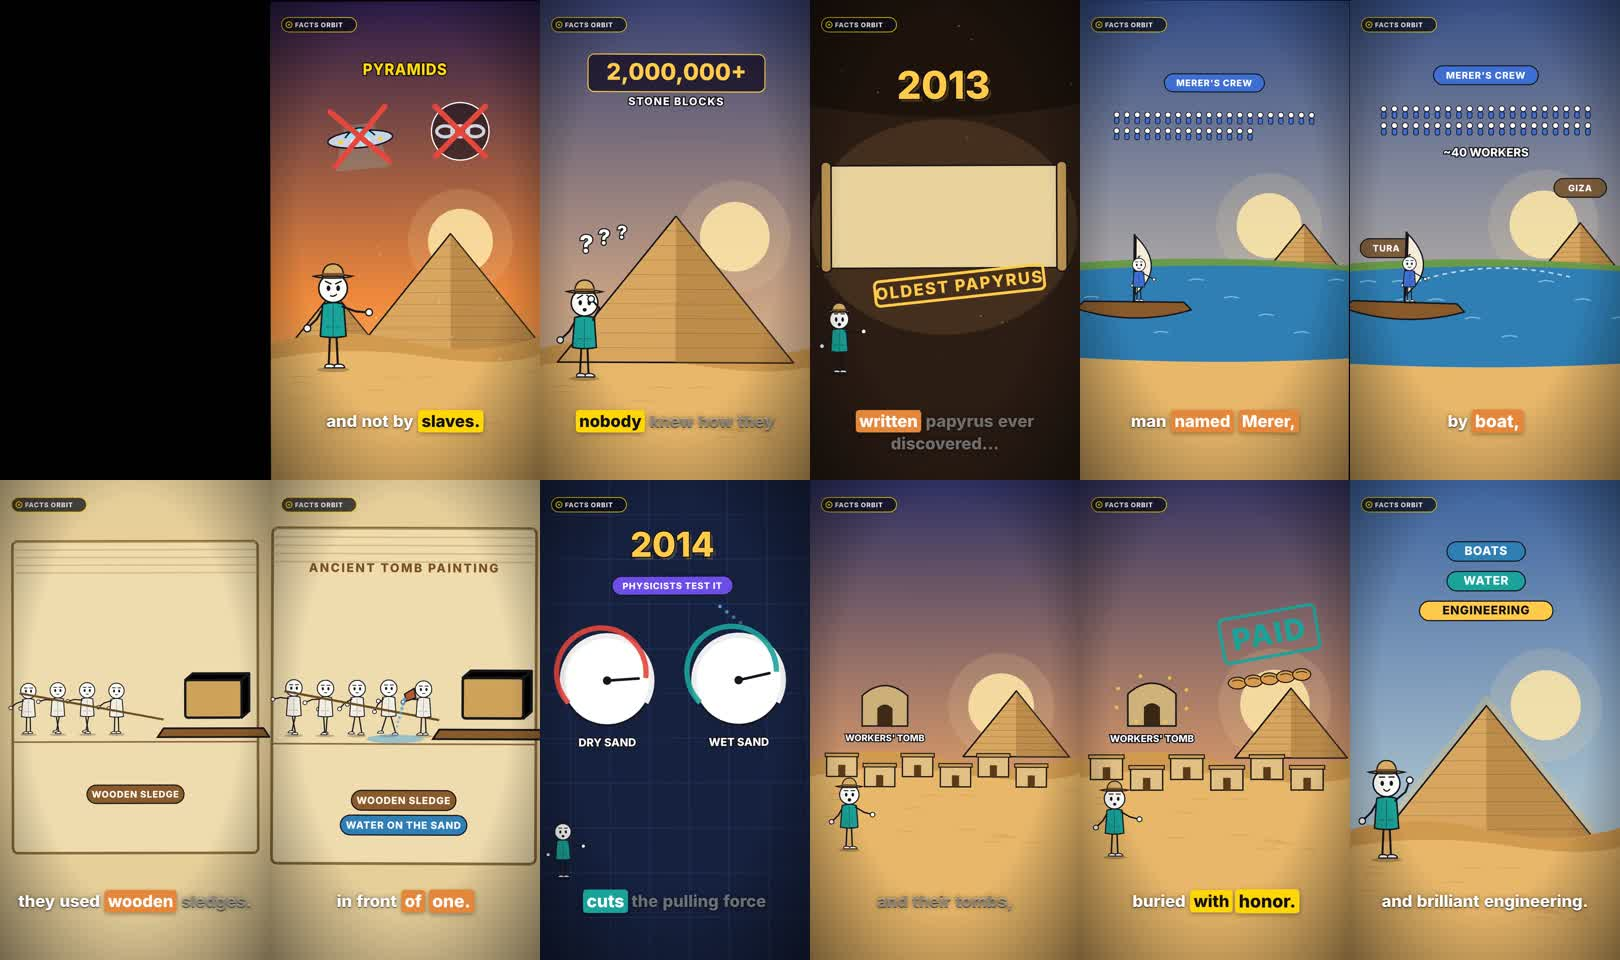
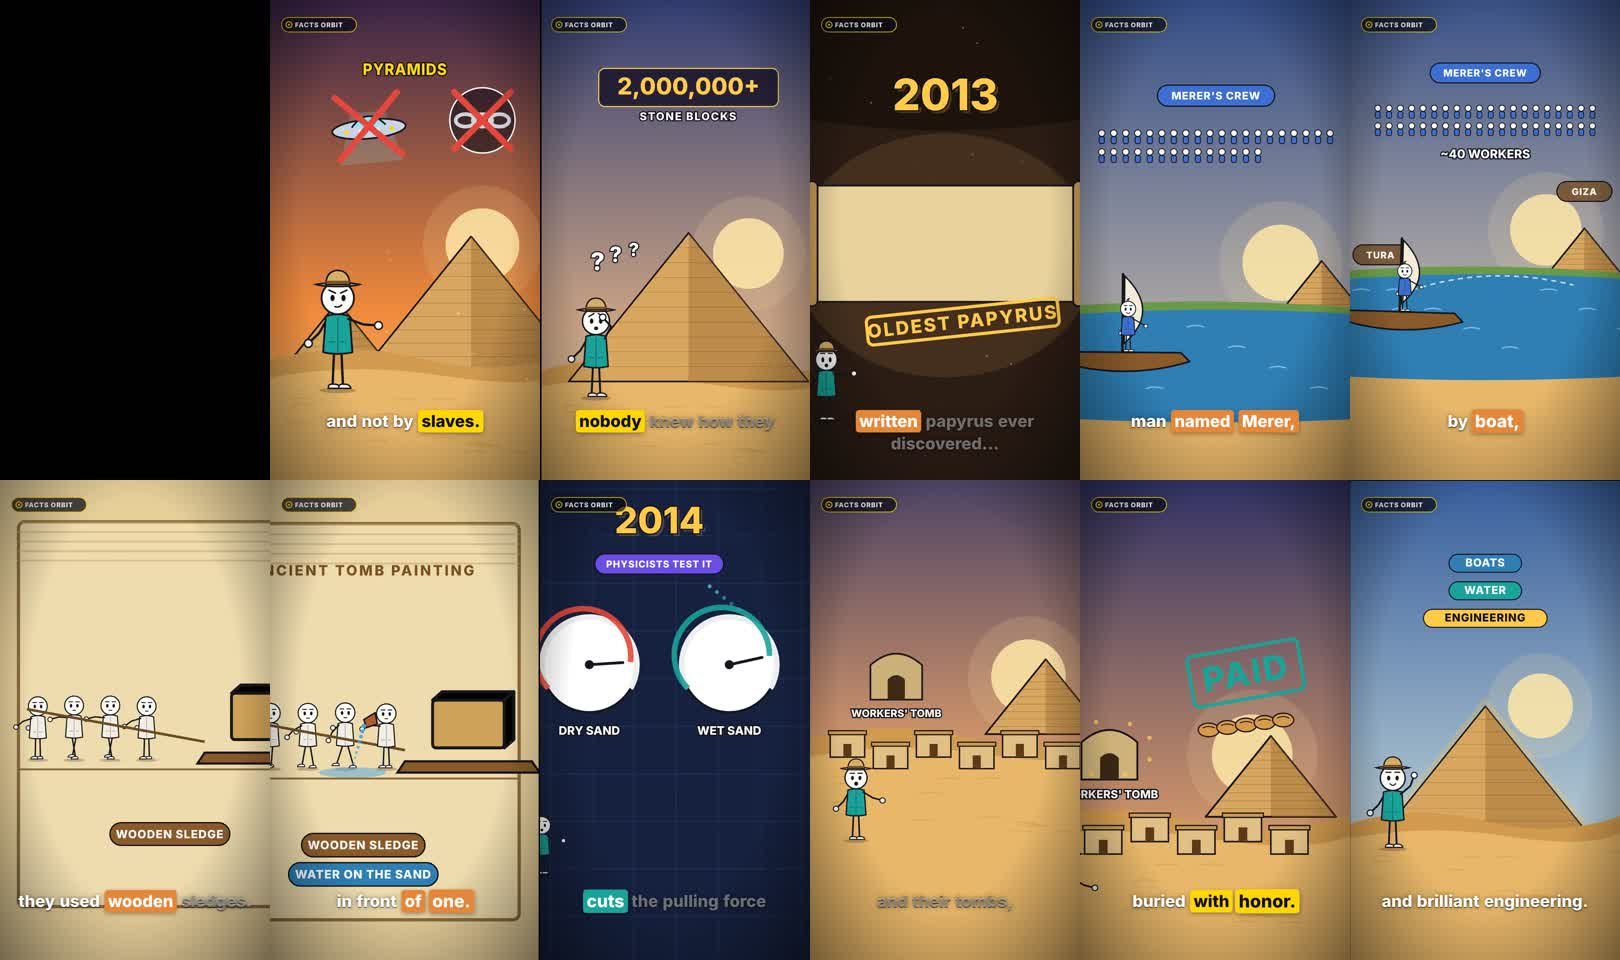
Director: camera moves (pan/tilt/dolly/roll), 8 transitions, punch-ins; pyramids v2 uses it
Claude-Session: https://claude.ai/code/session_01PC9EcwkToj898wWDRviNT9

diff --git a/episodes/2026-11-01-how-pyramids-were-built/Film.tsx b/episodes/2026-11-01-how-pyramids-were-built/Film.tsx
@@ -1,7 +1,7 @@
 import React from "react";
 import { AbsoluteFill, useCurrentFrame } from "remotion";
 import { Shots, ShotDef, Figure, FontStyle, Vignette, ramp, eio, eout, pop, clamp01, lerp, mix, rnd, blinkAt, VW, VH, INK } from "./kit";
-import { Narration, Sfx, Cue, Caps, Cover, Brand, Chip, BigNum, Stamp, Drift, Outro, countUp, FONT, YEL, INKC } from "./factkit";
+import { Narration, Sfx, Cue, Caps, Cover, Brand, Chip, BigNum, Stamp, Drift, Outro, countUp, FONT, YEL, INKC, Director, Shot, transitionCues } from "./factkit";
 import { WORDS, CHUNKS, TOTAL, ENV } from "./words";
 
 // cue frames (from gen_words cue table)
@@ -336,35 +336,37 @@ const S9_Outro: React.FC<{ f: number }> = ({ f }) => (
 
 export const PyramidsFilm: React.FC = () => {
   const f = useCurrentFrame();
-  const SHOTS: ShotDef[] = [
-    { from: 0, to: F.great, z0: 1.08, z1: 1.0, fx: 540, fy: 900, render: () => <S1_Hook f={f} /> },
-    { from: F.great, to: F.y2013, z0: 1.0, z1: 1.08, fx: 540, fy: 900, render: () => <S2_Blocks f={f} /> },
-    { from: F.y2013, to: F.merer, z0: 1.0, z1: 1.06, fx: 540, fy: 860, render: () => <S3_Papyrus f={f} /> },
-    { from: F.merer, to: F.sledge, z0: 1.0, z1: 1.06, fx: 540, fy: 1100, render: () => <S4_Boat f={f} /> },
-    { from: F.sledge, to: F.y2014, z0: 1.02, z1: 1.1, fx: 600, fy: 1000, render: () => <S5_Sledge f={f} /> },
-    { from: F.y2014, to: F.builders, z0: 1.0, z1: 1.06, fx: 540, fy: 800, render: () => <S6_Physics f={f} /> },
-    { from: F.builders, to: F.magic, z0: 1.0, z1: 1.07, fx: 500, fy: 950, render: () => <S7_Village f={f} /> },
-    { from: F.magic, to: F.sub, z0: 1.0, z1: 1.08, fx: 540, fy: 900, render: () => <S8_Recap f={f} /> },
-    { from: F.sub, to: TOTAL + 1, z0: 1.04, z1: 1.0, fx: 540, fy: 1000, render: () => <S9_Outro f={f} /> },
+  // camera path per shot: [frame, {x, y (world point at screen centre), z (zoom), r (roll)}]
+  const SHOTS: Shot[] = [
+    { from: 0, to: F.great, render: () => <S1_Hook f={f} />, cam: [[0, { x: 640, y: 860, z: 1.3 }], [60, { x: 560, y: 900, z: 1.12 }], [F.aliens + 4, { x: 420, y: 760, z: 1.22 }], [F.slaves + 10, { x: 640, y: 820, z: 1.18 }], [F.great, { x: 420, y: 1000, z: 1.1 }]] },
+    { from: F.great, to: F.y2013, tr: "whip", render: () => <S2_Blocks f={f} />, cam: [[F.great, { x: 540, y: 1250, z: 1.3 }], [F.nobody - 10, { x: 540, y: 820, z: 1.05 }], [F.y2013, { x: 380, y: 1050, z: 1.18 }]] },
+    { from: F.y2013, to: F.merer, tr: "flash", render: () => <S3_Papyrus f={f} />, cam: [[F.y2013, { x: 540, y: 760, z: 1.0 }], [F.logbook - 10, { x: 540, y: 880, z: 1.2 }], [F.merer, { x: 520, y: 760, z: 1.12, r: -1.5 }]] },
+    { from: F.merer, to: F.sledge, tr: "iris", render: () => <S4_Boat f={f} />, cam: [[F.merer, { x: 540, y: 560, z: 1.18 }], [F.boat - 20, { x: 520, y: 900, z: 1.08 }], [F.thirty + 10, { x: 600, y: 1080, z: 1.2 }], [F.sledge, { x: 780, y: 1060, z: 1.25 }]] },
+    { from: F.sledge, to: F.y2014, tr: "whipUp", render: () => <S5_Sledge f={f} />, cam: [[F.sledge, { x: 330, y: 880, z: 1.28 }], [F.painting + 20, { x: 520, y: 900, z: 1.22 }], [F.y2014, { x: 700, y: 860, z: 1.3 }]] },
+    { from: F.y2014, to: F.builders, tr: "zoom", render: () => <S6_Physics f={f} />, cam: [[F.y2014, { x: 540, y: 460, z: 1.2 }], [F.right, { x: 540, y: 800, z: 1.06 }], [F.half + 10, { x: 600, y: 1000, z: 1.12 }], [F.builders, { x: 560, y: 960, z: 1.04 }]] },
+    { from: F.builders, to: F.magic, tr: "wipe", render: () => <S7_Village f={f} />, cam: [[F.builders, { x: 540, y: 700, z: 1.22 }], [F.village + 40, { x: 420, y: 1050, z: 1.15 }], [F.paid, { x: 560, y: 920, z: 1.12 }], [F.magic, { x: 700, y: 780, z: 1.25 }]] },
+    { from: F.magic, to: F.sub, tr: "push", render: () => <S8_Recap f={f} />, cam: [[F.magic, { x: 540, y: 560, z: 1.35, r: 2 }], [F.brilliant, { x: 540, y: 900, z: 1.08, r: 0 }], [F.sub, { x: 540, y: 960, z: 1.0 }]] },
+    { from: F.sub, to: TOTAL + 1, tr: "zoom", render: () => <S9_Outro f={f} />, cam: [[F.sub, { x: 540, y: 1000, z: 1.12 }], [TOTAL, { x: 540, y: 960, z: 1.0 }]] },
   ];
-  const KICKS: [number, number][] = [[F.aliens + 18, 14], [F.slaves + 16, 14], [F.great + 80, 10], [F.y2013, 12], [F.y2013 + 80, 12], [F.thirty, 10], [F.half + 6, 18], [F.paid + 10, 14], [F.brilliant, 10]];
+  const PUNCH: [number, number][] = [[F.aliens + 18, 0.1], [F.slaves + 16, 0.1], [F.great + 80, 0.08], [F.y2013 + 80, 0.1], [F.logbook, 0.07], [F.thirty, 0.08], [F.half + 6, 0.16], [F.paid + 10, 0.12], [F.brilliant, 0.1]];
+  const SHAKE: [number, number][] = [[F.aliens + 18, 8], [F.y2013 + 80, 10], [F.half + 6, 16], [F.paid + 10, 10]];
   const SFX: Cue[] = [
     [F.aliens - 8, "whoosh", 0.45], [F.aliens + 18, "impact", 0.5], [F.slaves, "pop", 0.4], [F.slaves + 16, "impact", 0.5],
-    [F.great - 2, "whoosh", 0.4], [F.great + 10, "riser", 0.25], [F.great + 80, "impact", 0.45], [F.nobody, "pop", 0.3],
-    [F.y2013 - 2, "whoosh", 0.4], [F.y2013, "boom", 0.35], [F.y2013 + 80, "impact", 0.45], [F.logbook, "pop", 0.4],
-    [F.merer - 2, "whoosh", 0.4], [F.merer + 10, "tick", 0.3], [F.boat - 4, "whoosh", 0.3], [F.thirty, "pop", 0.4],
-    [F.sledge - 2, "whoosh", 0.4], [F.painting + 20, "pop", 0.35],
-    [F.y2014 - 2, "whoosh", 0.4], [F.y2014, "impact", 0.4], [F.right - 60, "riser", 0.3], [F.half + 6, "boom", 0.4],
-    [F.builders - 2, "whoosh", 0.4], [F.village + 6, "pop", 0.3], [F.paid + 10, "impact", 0.5],
-    [F.magic - 2, "whoosh", 0.4], [F.boats, "pop", 0.4], [F.boats + 24, "pop", 0.4], [F.brilliant, "impact", 0.45],
-    [F.sub - 2, "whoosh", 0.4], [F.sub + 4, "pop", 0.4], [F.sub + 34, "click", 0.6],
+    [F.great + 10, "riser", 0.25], [F.great + 80, "impact", 0.45], [F.nobody, "pop", 0.3],
+    [F.y2013, "boom", 0.35], [F.y2013 + 80, "impact", 0.45], [F.logbook, "pop", 0.4],
+    [F.merer + 10, "tick", 0.3], [F.boat - 4, "whoosh", 0.3], [F.thirty, "pop", 0.4],
+    [F.painting + 20, "pop", 0.35],
+    [F.y2014, "impact", 0.4], [F.right - 60, "riser", 0.3], [F.half + 6, "boom", 0.4],
+    [F.village + 6, "pop", 0.3], [F.paid + 10, "impact", 0.5],
+    [F.boats, "pop", 0.4], [F.boats + 24, "pop", 0.4], [F.brilliant, "impact", 0.45],
+    [F.sub + 4, "pop", 0.4], [F.sub + 34, "click", 0.6],
   ];
   const fade = Math.min(eout(ramp(f, 0, 6)), 1 - ramp(f, TOTAL - 16, TOTAL - 2));
   const accent = f < F.y2013 ? YEL : f < F.y2014 ? "#e4873b" : f < F.builders ? TEAL : YEL;
   return (
     <AbsoluteFill style={{ background: "#000" }}>
       <FontStyle />
-      <Shots f={f} shots={SHOTS} kicks={KICKS} />
+      <Director f={f} shots={SHOTS} punches={PUNCH} shakes={SHAKE} />
       <svg width={VW} height={VH} viewBox={`0 0 ${VW} ${VH}`} style={{ position: "absolute", inset: 0 }}>
         <Brand f={f} />
         <Cover f={f} word="PYRAMIDS" sub="HOW WERE THEY BUILT?" until={F.great - 10} />
@@ -373,7 +375,7 @@ export const PyramidsFilm: React.FC = () => {
       <Caps f={f} words={WORDS} chunks={CHUNKS} accent={accent} theme="dark" hide={f < 30} />
       <AbsoluteFill style={{ background: "#000", opacity: 1 - fade, pointerEvents: "none" }} />
       <Narration slug="pyramids" total={TOTAL} />
-      <Sfx cues={SFX} />
+      <Sfx cues={[...SFX, ...transitionCues(SHOTS)]} />
     </AbsoluteFill>
   );
 };

diff --git a/engine/src/factkit.tsx b/engine/src/factkit.tsx
@@ -173,3 +173,91 @@ export const Outro: React.FC<{ f: number; at: number; light?: boolean }> = ({ f,
     </g>
   );
 };
+
+// =====================================================================================
+// DIRECTOR — camera moves per shot + transitions between shots (+ punch-in zooms, handheld)
+// =====================================================================================
+/** Camera keyframe: look at world point (x,y) with zoom z (>=1) and roll r (deg). */
+export type Cam = { x: number; y: number; z: number; r?: number };
+/** Transition INTO a shot. whip = fast pan + motion blur; zoom = zoom-through; iris = circle reveal;
+ *  wipe = diagonal wipe; push = slide up; flash = white flash cut; spin = rotate+zoom; cut = hard cut. */
+export type Trans = "whip" | "whipUp" | "zoom" | "iris" | "wipe" | "push" | "flash" | "spin" | "cut";
+export type Shot = {
+  from: number; to: number;
+  /** camera path: list of [frame, Cam]; eased between keys. One key = locked-off camera. */
+  cam: [number, Cam][];
+  tr?: Trans; trLen?: number;
+  render: () => React.ReactNode;
+};
+const easeInOut = (t: number) => (t < 0.5 ? 4 * t * t * t : 1 - Math.pow(-2 * t + 2, 3) / 2);
+const camAt = (f: number, keys: [number, Cam][]): Cam => {
+  if (f <= keys[0][0]) return keys[0][1];
+  for (let i = 0; i < keys.length - 1; i++) {
+    const [f0, a] = keys[i], [f1, b] = keys[i + 1];
+    if (f <= f1) {
+      const t = easeInOut(clamp01((f - f0) / Math.max(1, f1 - f0)));
+      return { x: lerp(a.x, b.x, t), y: lerp(a.y, b.y, t), z: lerp(a.z, b.z, t), r: lerp(a.r ?? 0, b.r ?? 0, t) };
+    }
+  }
+  return keys[keys.length - 1][1];
+};
+/** CSS transform that puts world point (x,y) at screen centre at zoom z, clamped so frame edges never show. */
+const camCss = (c: Cam, extraZ = 1, dx = 0, dy = 0, rot = 0) => {
+  const z = Math.max(1, c.z * extraZ);
+  const hw = VW / (2 * z), hh = VH / (2 * z);
+  const cx = Math.min(VW - hw, Math.max(hw, c.x)), cy = Math.min(VH - hh, Math.max(hh, c.y));
+  const tx = VW / 2 - cx * z + dx, ty = VH / 2 - cy * z + dy;
+  return `translate(${tx}px, ${ty}px) scale(${z}) rotate(${(c.r ?? 0) + rot}deg)`;
+};
+/**
+ * Director renders the active shot with its moving camera, and during the first trLen frames of a shot
+ * renders the outgoing shot too, blended by the chosen transition.
+ * punches: [frame, strength] quick zoom punch-ins (e.g. 0.12) on key words. shake: [frame, px] impact shakes.
+ */
+export const Director: React.FC<{ f: number; shots: Shot[]; punches?: [number, number][]; shakes?: [number, number][]; handheld?: number }> = ({ f, shots, punches = [], shakes = [], handheld = 4 }) => {
+  const idx = Math.max(0, shots.findIndex((s) => f >= s.from && f < s.to));
+  const cur = shots[idx];
+  const prev = idx > 0 ? shots[idx - 1] : null;
+  const L = cur.trLen ?? (cur.tr === "flash" || cur.tr === "cut" ? 6 : 12);
+  const t = clamp01((f - cur.from) / L);
+  const inTr = prev && cur.tr && cur.tr !== "cut" && t < 1;
+  // punch-ins + shakes + handheld
+  let pz = 1;
+  for (const [at, k] of punches) { const q = f - at; if (q >= 0 && q < 18) pz += k * Math.sin(Math.min(1, q / 5) * Math.PI / 2) * Math.exp(-Math.max(0, q - 5) / 5); }
+  let sx = Math.sin(f * 0.047) * handheld + Math.sin(f * 0.021 + 2) * handheld * 0.6;
+  let sy = Math.sin(f * 0.039 + 1) * handheld + Math.sin(f * 0.017) * handheld * 0.6;
+  for (const [at, amp] of shakes) { const q = f - at; if (q >= 0 && q < 22) { const d = Math.exp(-q / 6); sx += Math.sin(q * 1.35) * amp * d; sy += Math.cos(q * 1.1) * amp * 0.6 * d; } }
+  const layer = (s: Shot, style: React.CSSProperties, extraZ = 1, dx = 0, dy = 0, rot = 0) => (
+    <div style={{ position: "absolute", inset: 0, overflow: "hidden", ...style }}>
+      <div style={{ position: "absolute", left: 0, top: 0, width: VW, height: VH, transformOrigin: "0 0", transform: camCss(camAt(f, s.cam), extraZ * pz, dx + sx, dy + sy, rot) }}>
+        <svg width={VW} height={VH} viewBox={`0 0 ${VW} ${VH}`}>{s.render()}</svg>
+      </div>
+    </div>
+  );
+  if (!inTr || !prev) return <>{layer(cur, {})}</>;
+  const e = easeInOut(t);
+  const blur = (k: number) => ({ filter: `blur(${(k).toFixed(1)}px)` });
+  switch (cur.tr) {
+    case "whip": { const b = Math.sin(t * Math.PI) * 26;
+      return <>{layer(prev, blur(b), 1, -e * VW * 1.1)}{layer(cur, blur(b), 1, (1 - e) * VW * 1.1)}</>; }
+    case "whipUp": { const b = Math.sin(t * Math.PI) * 26;
+      return <>{layer(prev, blur(b), 1, 0, -e * VH)}{layer(cur, blur(b), 1, 0, (1 - e) * VH)}</>; }
+    case "push":
+      return <>{layer(prev, { opacity: 1 - e * 0.6 }, 1 - e * 0.1, 0, -e * 300)}{layer(cur, { boxShadow: "0 -30px 60px rgba(0,0,0,0.5)" }, 1, 0, (1 - e) * VH)}</>;
+    case "zoom":
+      return <>{layer(prev, { opacity: 1 - e, ...blur(e * 14) }, 1 + e * 1.6)}{layer(cur, { opacity: e, ...blur((1 - e) * 10) }, 0.65 + e * 0.35)}</>;
+    case "spin":
+      return <>{layer(prev, { opacity: 1 - e, ...blur(e * 10) }, 1 + e * 0.8, 0, 0, e * 25)}{layer(cur, { opacity: e }, 1.6 - e * 0.6, 0, 0, (1 - e) * -25)}</>;
+    case "iris": { const r = e * 1150;
+      return <>{layer(prev, {})}{layer(cur, { clipPath: `circle(${r}px at 50% 46%)` })}</>; }
+    case "wipe": { const p = e * 160 - 30;
+      return <>{layer(prev, {})}{layer(cur, { clipPath: `polygon(0 0, ${p}% 0, ${p - 30}% 100%, 0 100%)` })}</>; }
+    case "flash":
+      return <>{layer(t < 0.5 ? prev : cur, {})}<div style={{ position: "absolute", inset: 0, background: "#fff", opacity: Math.sin(t * Math.PI) * 0.85 }} /></>;
+    default:
+      return <>{layer(cur, {})}</>;
+  }
+};
+/** Whoosh cues for every transition (2 frames before the shot starts). */
+export const transitionCues = (shots: Shot[], vol = 0.42): Cue[] =>
+  shots.filter((s, i) => i > 0 && s.tr && s.tr !== "cut").map((s) => [s.from - 2, s.tr === "flash" ? "impact" : "whoosh", vol] as Cue);

diff --git a/docs/pipeline.md b/docs/pipeline.md
@@ -62,3 +62,12 @@ and the status block in `AGENTS.md`, then commit + push.
 The first two videos were made with a different, older pipeline: a canvas page (`engine/legacy-canvas/video.html`,
 `video2.html`) driven by `timeline.json`, frames captured with Playwright (`vrender.js`) and encoded with ffmpeg.
 It is kept for reference; new videos use the Remotion engine above.
+
+## Camera + transitions (Director, from Oct 31 2026 — required on every new film)
+`engine/src/factkit.tsx` → `<Director f shots punches shakes />` replaces `Shots`.
+- Each shot: `{ from, to, tr, cam: [[frame, {x, y, z, r}], ...], render }`. The camera looks at world point (x, y) with zoom z ≥ 1 and roll r; keys are eased; framing is clamped so frame edges never show.
+- Moves to use: pan (x changes), tilt/crane (y changes), dolly push-in (z up), pull-back reveal (z down), slight roll.
+- `tr` = transition INTO the shot: `whip`, `whipUp` (motion-blurred pans), `zoom` (zoom-through), `iris` (circle reveal), `wipe` (diagonal), `push` (slide up), `flash` (white flash, for big reveals like a year), `spin`, `cut`. Vary them — never the same transition twice in a row.
+- `punches`: [frame, 0.07–0.16] quick zoom punch-ins on key words; `shakes`: [frame, px] impact shakes.
+- `transitionCues(SHOTS)` adds a whoosh (or impact for flash) to the SFX track for every transition.
+- Keep the character's head above the caption band (screen y < ~1600) when zooming: higher zoom pushes the ground down.
